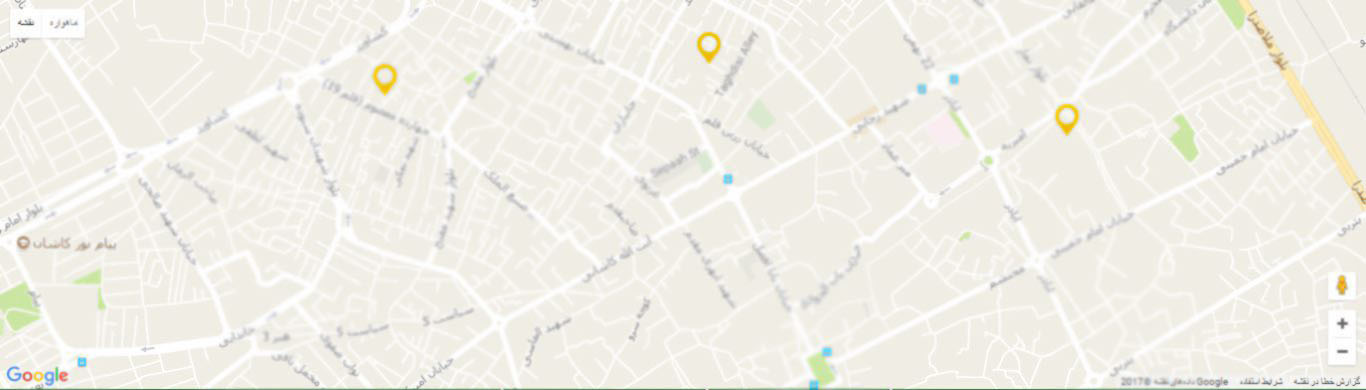
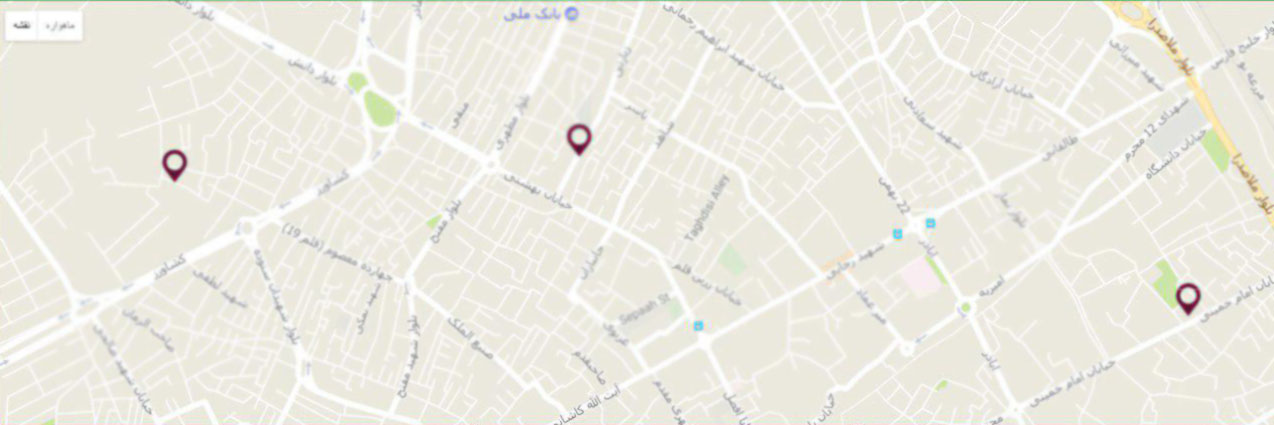
changed background map

diff --git a/public/templates/Panel/mainPageStuff/mainView.html b/public/templates/Panel/mainPageStuff/mainView.html
@@ -1,6 +1,6 @@
 <md-content layout="column" layout-xs="column" layout-sm="column" layout-md="column" layout-lg="column"
             layout-xl="column" ng-controller="mainViewCtrl" ng-init="initMainView()"
-            style=" height:100% ; background-image: url('../../../img/BGs/mapBlurry.JPG');background-repeat: no-repeat;background-size: 100% 100%;">
+            style=" height:100% ; background-image: url('../../../img/BGs/mapBlurry.png');background-repeat: no-repeat;background-size: 100% 100%;">
     <div layout="row" layout-xs="row" layout-sm="row" layout-md="row" layout-lg="row" layout-xl="row" flex="100"
          flex-xs="100" flex-sm="100" flex-md="100" flex-lg="100" flex-xl="100">
         <div flex="35" flex-xs="35" flex-sm="35" flex-md="35" flex-lg="35" flex-xl="35"></div>

diff --git a/public/templates/Panel/userPanel.html b/public/templates/Panel/userPanel.html
@@ -38,7 +38,8 @@
         </div>
     </md-toolbar>
     <md-content class="md-padding" flex="100" flex-xs="100" flex-sm="100" flex-md="100" flex-lg="100" flex-xl="100">
-        <md-tabs md-selected="selectedIndex" md-dynamic-height md-border-bottom>
+        <md-tabs md-selected="selectedIndex" md-stretch-tabs="never"
+                 md-center-tabs="true" md-dynamic-height md-border-bottom>
             <md-tab label="ویرایش اطلاعات" ui-sref=".edit">
                 <md-content class="md-padding">
                     <!--  <div ng-include="'./templates/Panel/userPanelItems/EditInfo.html'"></div> -->
